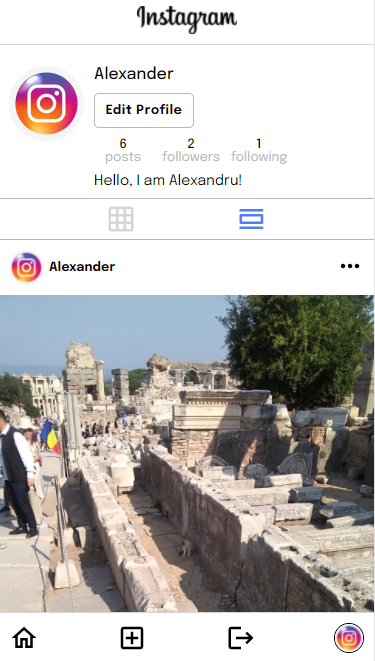
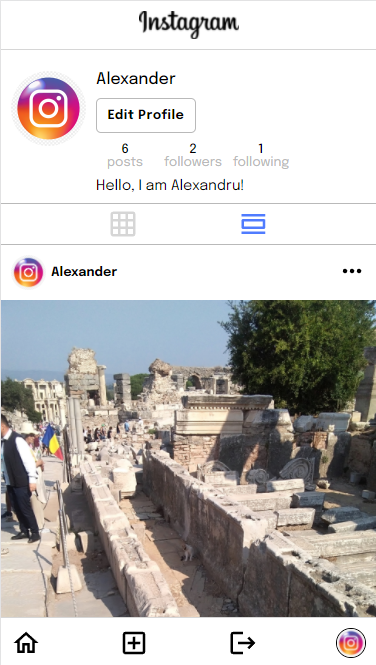
Added desktop preview

diff --git a/src/Pages/SignIn.js b/src/Pages/SignIn.js
@@ -4,8 +4,11 @@ import logo from '../Components/Images/instagramLogo.png'
 import {Context} from '../Context'
 import {auth} from '../firebase'
 import {signInWithPopup,GoogleAuthProvider} from 'firebase/auth'
-import iphoneImage from '../Components/Images/iphoneimage.jpg'
-import showImages from "../showImages";
+import iphoneImage from '../Components/Images/iphoneimage.png'
+import showImages from "../showImagesPhone";
+import macImage from '../Components/Images/macImage.png'
+import showImagesDesktop from '../showImagesDesktop'
+
 
 
 function SignIn(){
@@ -13,8 +16,8 @@ function SignIn(){
     const {setUser}=useContext(Context)
     const provider = new GoogleAuthProvider()
 
-    function nextSlide(){
-        if(index<showImages.length-1){
+    function nextSlide(length){
+        if(index<length-1){
             setIndex(index+1)
         }
         else{
@@ -23,7 +26,7 @@ function SignIn(){
     }
 
     useEffect(()=>{
-        const intervalId = setInterval(nextSlide,5000)
+        const intervalId = setInterval(()=>nextSlide(showImages.length||showImagesDesktop.length),5000)
 
         return ()=>clearInterval(intervalId)
     },[index])
@@ -40,12 +43,24 @@ function SignIn(){
     }
     return( 
     <div className='signInContainer'>
-        <div className='iphoneContainer'>
+        <div className='previewContainer'>
+            <div className='iphoneContainer'>
             <img src={iphoneImage} className='iphonePic'/>
-            {showImages.map((item,ind)=>(
-                <img key={ind} src={item.image} alt={'Preview'} className={index===ind?'iphoneContent':'iphoneContentNoDisplay'}/>
+            {showImages.map((photo,ind)=>(
+                <img key={ind} src={photo.image} alt={'Preview'} className={index===ind?'iphoneContent':'iphoneContentNoDisplay'}/>
                 )
             )}
+            </div>
+            
+            <div className='desktopContainer'>
+            <img src={macImage} className='macImage'/>
+            {showImagesDesktop.map((photo,ind)=>(
+                <img src={photo.image} className={index===ind?'desktopImage':'desktopImageNoDisplay'}/>
+            )
+            )}
+            
+            </div>
+
         </div>
         
         <div className='signInInner'>

diff --git a/src/Pages/SignIn.css b/src/Pages/SignIn.css
@@ -4,6 +4,11 @@
     flex-direction: column;
     align-items: center;
     justify-content: space-evenly;
+    max-width: 1000px;
+}
+.previewContainer{
+    display: flex;
+    position: relative;
 }
 .signInInner{
     display: flex;
@@ -31,45 +36,80 @@
 .iphoneContainer{
     position: relative;
     display: none;
+    z-index: 1000;
 }
 
 .iphoneContent{
     position: absolute;
-    right: 66.5px;
-    top:69px;
-    width: 205px;
+    right: 35px;
+    top:60px;
+    width: 215px;
     opacity: 1;
-    animation: fadeVisibility 1.5s;
 }
 .iphoneContentNoDisplay{
     display: none;
     opacity: 0;
-    animation: fadeVisibility 1.5s;
+}
+.iphonePic{
+    width: 300px;
 }
 
-@keyframes fadeVisibility {
-    0% {
-        opacity: 0;
-    }
-    100% {
-        opacity: 1;
-    }
+.desktopContainer{
+    position: relative;
+}
+.desktopImage{
+    display: initial;
+    position: absolute;
+    right: 130px;
+    top:45px;
+    height: 78%;
+    width: 74%;
+}
+.desktopImageNoDisplay{
+    display: none;
+}
+.macImage{
+    width: 1000px;
+    display: none;
 }
 
 @media(min-width:700px){
     .signInContainer{
         flex-direction: row;
-        max-width: 600px;
         margin: 0 auto;
     }
     .iphoneContainer{
-        display: flex;
+        display: block;
     }
     .signInInner{
         height: initial;
-
     }
     .signInButton{
         margin-top: 20px;
+        padding:10px 30px;
+    }
+    .signInLogo{
+        max-width: 150px;
+    }
+}
+
+@media(min-width:1200px){
+    .signInContainer{
+        flex-direction: column;
+        min-height: 100vh;
+    }
+    .signInLogo{
+        display: none;
+    }
+    .macImage{
+        display: initial;
+    }
+    .signInButton{
+        margin:0;
+    }
+    .iphoneContainer{
+        position: absolute;
+        right:-50px;
+        top:70px;
     }
 }

diff --git a/src/showImagesDesktop.js b/src/showImagesDesktop.js
@@ -1,0 +1,43 @@
+import desktop1 from './Components/Images/desktop1.png'
+import desktop2 from './Components/Images/desktop2.png'
+import desktop3 from './Components/Images/desktop3.png'
+import desktop4 from './Components/Images/desktop4.png'
+import desktop5 from './Components/Images/desktop5.png'
+import desktop6 from './Components/Images/desktop6.png'
+import desktop7 from './Components/Images/desktop7.png'
+import desktop8 from './Components/Images/desktop8.png'
+import desktop9 from './Components/Images/desktop9.png'
+import desktop10 from './Components/Images/desktop10.png'
+
+export default [
+    {
+    image:desktop1
+    },
+    {
+    image:desktop2
+    },
+    {
+    image:desktop3
+    },
+    {
+    image:desktop4
+    },
+    {
+    image:desktop5
+    },
+    {
+    image:desktop6
+    },
+    {
+    image:desktop7
+    },
+    {
+    image:desktop8
+    },
+    {
+    image:desktop9
+    },
+    {
+    image:desktop10
+    }
+]
